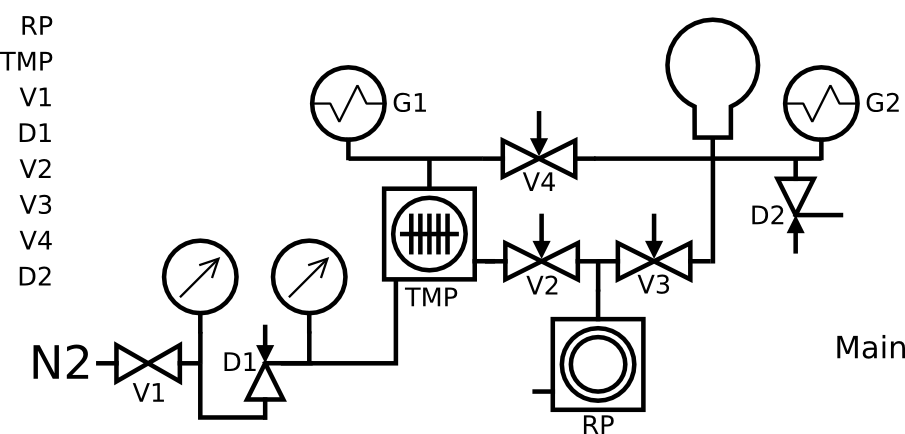
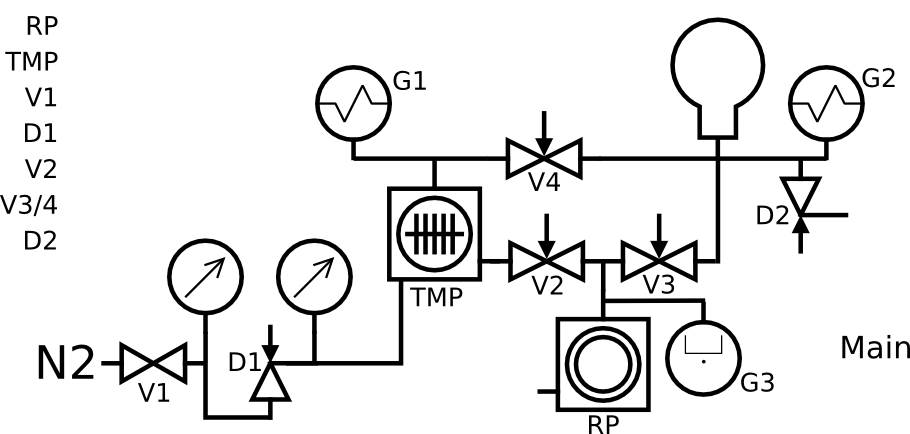
IO plug-in: Config add ons

diff --git a/html/modules/pong-io/pong-io.js b/html/modules/pong-io/pong-io.js
@@ -206,7 +206,7 @@ function pongIOrenderData( divId,  dta ) {
 				} else if ( io.type == 'Gauge') {
 					pongIOrenderGauge( ctx, io, ioDta );
 				} else if ( io.type == 'Display') {
-					pongIOrenderDisplay( ctx, io, ioDta );
+					pongIOrenderDisplay(  divId, ctx, io, ioDta );
 				} else if ( io.type == 'Graph') {
 					pongIOrenderGraph( ctx, io, ioDta );
 				} else if ( io.type == 'Img') {
@@ -237,13 +237,14 @@ function pongIOrenderSwitch( divId, ctx, def, dta ) {
 	ioSense[ divId ][ def.id ] = new Array();
 	var x = parseInt( def.pos.x );
 	var y = parseInt( def.pos.y );
-	ctx.font = "14px Courier";
 	ctx.textAlign = "start";
 	ctx.textBaseline = "middle";
 	if ( def.values && def.values.length ) { 
 		ctx.beginPath();
 		ctx.strokeStyle = "#00F";
 		ctx.fillStyle   = "#DDD";
+		if ( def.lineCol ) { ctx.strokeStyle = def.lineCol; }
+		if ( def.fillCol ) { ctx.fillStyle   = def.fillCol; }
 		ctx.arc( x, y, 15, 0 ,2*Math.PI );
 		ctx.stroke();		
 		ctx.fill();
@@ -252,40 +253,35 @@ function pongIOrenderSwitch( divId, ctx, def, dta ) {
 		var xx = x + 17
 		if ( def.values.length == 2 ) {
 			var yy = y - 8;
-			ctx.fillStyle   = "#00F";
-			ctx.fillText( def.values[0], xx, yy );
+			textOut( divId, def, ctx, def.values[0], xx, yy );
 			pongIOaddSwitchSense( divId, def.id, def.values[0], xx, yy );
 			if ( dta && dta.value && def.values[0] == dta.value ) {
-				pongIOrenderSwitchLine( ctx, x+10, y-10 );
+				pongIOrenderSwitchLine( ctx, x+10, y-10, def );
 			}
 			yy = y + 8;
-			ctx.fillStyle   = "#00F";
-			ctx.fillText( def.values[1], xx, yy );
+			textOut( divId, def, ctx, def.values[1], xx, yy );
 			pongIOaddSwitchSense( divId, def.id, def.values[1], xx, yy );
 			if ( dta && dta.value && def.values[1] == dta.value ) {
-				pongIOrenderSwitchLine( ctx, x+10, y+10 );
+				pongIOrenderSwitchLine( ctx, x+10, y+10, def );
 			}
 		} else if ( def.values.length == 3 ) {
 			var yy = y - 12;
-			ctx.fillStyle   = "#00F";
-			ctx.fillText( def.values[0], xx, yy );
+			textOut( divId, def, ctx, def.values[0], xx, yy );
 			pongIOaddSwitchSense( divId, def.id, def.values[0], xx, yy );
 			if ( dta && dta.value && def.values[0] == dta.value ) {
-				pongIOrenderSwitchLine( ctx, x+10, y-10 );
+				pongIOrenderSwitchLine( ctx, x+10, y-10, def );
 			}
 			yy = y;
-			ctx.fillStyle   = "#00F";
-			ctx.fillText( def.values[1], xx, yy );
+			textOut( divId, def, ctx, def.values[1], xx, yy );
 			pongIOaddSwitchSense( divId, def.id, def.values[1], xx, yy );
 			if ( dta && dta.value && def.values[1] == dta.value ) {
-				pongIOrenderSwitchLine( ctx, x+15, y );
+				pongIOrenderSwitchLine( ctx, x+15, y, def );
 			}
 			yy = y + 12;
-			ctx.fillStyle   = "#00F";
-			ctx.fillText( def.values[2], xx, yy );
+			textOut( divId, def, ctx, def.values[2], xx, yy );
 			pongIOaddSwitchSense( divId, def.id, def.values[2], xx, yy );
 			if ( dta && dta.value && def.values[2] == dta.value ) {
-				pongIOrenderSwitchLine( ctx, x+10, y+10 );
+				pongIOrenderSwitchLine( ctx, x+10, y+10, def );
 			}
 		}
 	}
@@ -293,10 +289,35 @@ function pongIOrenderSwitch( divId, ctx, def, dta ) {
 	log( "pong-io", "pongIOrenderSwitch end.");
 }
 
-function pongIOrenderSwitchLine( ctx, xt, yt ) {
+function textOut( divId, def, ctx, txt, x, y, opt ) {
+	var pmd = moduleConfig[ divId ];
+	
+	if ( def.font ) {	ctx.font = def.font; } 
+		else if ( pmd.font ) { ctx.font   = pmd.font; } 
+			else if ( opt && opt.font ) { ctx.font   = opt.font; } 
+				else { ctx.font   = "14px Courier"; }
+
+	if ( def.textFillColor ) {	ctx.fillStyle = def.textFillColor; } 
+		else if ( pmd.textFillColor ) { ctx.fillStyle   = pmd.textFillColor; } 
+			else if ( opt && opt.fillStyle ) { ctx.fillStyle   = opt.fillStyle; } 
+				else { ctx.fillStyle   = "#00F"; }
+	
+	if ( def.textStrokeColor ) {	ctx.strokeStyle = def.textStrokeColor; } 
+		else if ( pmd.textStrokeColor ) { ctx.strokeStyle   = pmd.textStrokeColor; } 
+			else if ( opt && opt.strokeStyle ) { ctx.strokeStyle   = opt.strokeStyle; } 
+				else { ctx.strokeStyle   = "#FFF"; }
+	
+	ctx.strokeText( txt, x, y );
+	ctx.fillText(   txt, x, y );
+	
+}
+
+function pongIOrenderSwitchLine( ctx, xt, yt, def ) {
 	log( "pong-io", xt +" / " + yt );
 	ctx.strokeStyle = "#00F";
 	ctx.fillStyle   = "#DDD";
+	if ( def.lineCol ) { ctx.strokeStyle = def.lineCol; }
+	if ( def.fillCol ) { ctx.fillStyle   = def.fillCol; }
 	ctx.lineTo( xt, yt ); 
 	ctx.stroke();	
 }
@@ -321,6 +342,8 @@ function pongIOrenderPoti( divId, ctx, def, dta ) {
 	ctx.lineWidth   = "2";
 	ctx.strokeStyle = "#00F";
 	ctx.fillStyle   = "#DDD";
+	if ( def.lineCol ) { ctx.strokeStyle = def.lineCol; }
+	if ( def.fillCol ) { ctx.fillStyle   = def.fillCol; }
 	ctx.rect( x, y, w, 20 );
 	ctx.stroke();
 	ctx.fill();  	
@@ -331,7 +354,7 @@ function pongIOrenderPoti( divId, ctx, def, dta ) {
 	ioSense[ divId ][ def.id ].y2 = y + 20;
 	ioSense[ divId ][ def.id ].min = min;
 	ioSense[ divId ][ def.id ].max = max;
-	if ( dta && dta.value ) {
+	if ( dta && dta.value != null ) {
 		log( "pong-io", "pongIOrenderPoti "+x+" + "+w+" * "+dta.value+" / ( "+max+" -"+ min+" )" );
 		ctx.beginPath();
 		var xx = x + ( w - 5 ) * dta.value / ( max - min );
@@ -340,6 +363,8 @@ function pongIOrenderPoti( divId, ctx, def, dta ) {
 		ctx.rect( xx, y, 5, 20 );
 		ctx.strokeStyle = "#00A";
 		ctx.fillStyle   = "#117";
+		if ( def.lineCol ) { ctx.strokeStyle = def.lineCol; }
+		if ( def.fillCol ) { ctx.fillStyle   = def.fillCol; }
 		ctx.stroke();
 		ctx.fill();  	
 	}
@@ -347,7 +372,7 @@ function pongIOrenderPoti( divId, ctx, def, dta ) {
 }
 
 
-function pongIOrenderDisplay( ctx, def, dta ) {
+function pongIOrenderDisplay( divId, ctx, def, dta ) {
 	log( "pong-io", "pongIOrenderDisplay '"+def.id+"': "+JSON.stringify(dta) );
 	var x = parseInt( def.pos.x );
 	var y = parseInt( def.pos.y );
@@ -355,20 +380,24 @@ function pongIOrenderDisplay( ctx, def, dta ) {
 	log( "pong-io", x+"/"+y+"/"+w );
 	ctx.beginPath();
 	ctx.lineWidth   = "2";
-	ctx.strokeStyle = "#0F0";
+	ctx.strokeStyle = "#00A";
 	ctx.fillStyle   = "#DDD";
+	if ( def.lineCol ) { ctx.strokeStyle = def.lineCol; }
+	if ( def.fillCol ) { ctx.fillStyle   = def.fillCol; }
 	ctx.rect( x, y, w, 20 );
 	ctx.stroke();
 	ctx.fill();  		
-	if ( dta  || dta.value  ) {
-		ctx.fillStyle   = "#040";
-		ctx.font = "14px Courier";
+	if ( dta  && dta.value  ) {
+		var opt = new Object();
+		opt.fillStyle   = "#040";
+		opt.strokeStyle = "#0F0";
 		ctx.textAlign = "end"; 
 		ctx.textBaseline = "bottom"; 
 		var xx = x + w - 4;
-		var yy = y + 15;
+		var yy = y + 17;
 		log( "pong-io", "ctx.fillText( "+dta.value+","+ xx+","+yy+" );" );
-		ctx.fillText( dta.value, xx, yy );
+//		ctx.fillText( dta.value, xx, yy );
+		textOut( divId, def, ctx, dta.value, xx, yy, opt );
 	}	
 	log( "pong-io", "pongIOrenderDisplay end.");
 }
@@ -397,38 +426,32 @@ function pongIOrenderLED( ctx, def, dta ) {
 		log( "pong-io", "null" );
 		ctx.strokeStyle = "grey";
 		ctx.fillStyle   = "grey";
-		ctx.rect( x, y, 7, 7 );
-		ctx.fill();  		
 	} else if ( dta.value == "1" ) {
 		log( "pong-io", "green" );
 		ctx.strokeStyle = "#0f0";
 		ctx.fillStyle   = "#0f0";
-		ctx.rect( x, y, 7, 7 );
-		ctx.fill();  		
 	} else if ( dta.value == "0" ) {
 		log( "pong-io", "black" );
 		ctx.strokeStyle = "black";
 		ctx.fillStyle   = "black";
-		ctx.rect( x, y, 7, 7 );
-		ctx.fill();  		
 	}  else if ( dta.value == "-1" ) {
 		log( "pong-io", "red" );
 		ctx.strokeStyle = "red";
 		ctx.fillStyle   = "red";
-		ctx.rect( x, y, 7, 7 );
-		ctx.fill();  		
 	}  else if ( dta.value == "2" ) {
 		log( "pong-io", "red" );
 		ctx.strokeStyle = "yellow";
 		ctx.fillStyle   = "yellow";
-		ctx.rect( x, y, 7, 7 );
-		ctx.fill();  		
 	} else {
 		log( "pong-io", "other" );
 		ctx.strokeStyle = "grey";
 		ctx.fillStyle   = "grey";
-		ctx.rect( x, y, 7, 7 );
-		ctx.fill();  				
 	}
+	var ledW = 7, ledH = 7;
+	if ( def.ledWidth  ) { ledW = def.ledWidth; }
+	if ( def.ledHeight ) { ledW = def.ledHeight; }
+	ctx.rect( x, y, ledW, ledH );
+	ctx.fill();  		
 	log( "pong-io", "pongIOrenderLED end.");
 }
+

diff --git a/html/svc/io/index.php b/html/svc/io/index.php
@@ -1,9 +1,20 @@
 <?php 
 header('Content-type: application/json');
 session_start();
+if ($_SERVER['REQUEST_METHOD'] === 'POST') {
+	if ( $_POST['value'] == 'Power OFF' ) {
+		unset( $_SESSION["p1"] );
+	}
+	if ( $_POST['value'] == 'Power ON' ) {
+		$_SESSION["switchMain"] = 'Power ON';
+	}
+}
+
 if ( ! isset( $_SESSION["p1"] ) ) {
 	$_SESSION["p1"] = 100;
 	$_SESSION["p2"] = 100;
+	$_SESSION["p3"] = 100;
+	
 	$_SESSION["switchMain"] = 'Power ON';
 	$_SESSION["switchTMP"]  = 'OFF';
 	$_SESSION["ledTMP"]     = '-1';
@@ -15,8 +26,7 @@ if ( ! isset( $_SESSION["p1"] ) ) {
 	
 	$_SESSION["switchValveN2"]   = 'close';
 	$_SESSION["switchValveTMP"]  = 'close';
-	$_SESSION["switchValveChHi"] = 'close';
-	$_SESSION["switchValveChLo"] = 'close';
+	$_SESSION["switchValveChHi"] = 'inflate';
 	
 	$_SESSION["ledValveN2"] = '-1';
 	$_SESSION["ledValveTMP"] = '-1';
@@ -26,7 +36,7 @@ if ( ! isset( $_SESSION["p1"] ) ) {
 }
 
 
-if ($_SERVER['REQUEST_METHOD'] === 'POST') {
+if ( $_SERVER['REQUEST_METHOD'] === 'POST' && 	$_SESSION["switchMain"] != 'Power OFF' ) {
 
 	error_log( $_POST['id'] .'='. $_POST['value'] );
 	$_SESSION[ $_POST['id'] ] = $_POST['value'];
@@ -105,6 +115,7 @@ if ( $_SESSION["ledValveChHi"] == '1' ) {
 	$_SESSION["p2"] = $_SESSION["p1"];
 }
 if ( $_SESSION["switchRP"] == 'ON') { 
+	$_SESSION["p3"] = 10;
 	if ( $_SESSION["switchValveInflate"] < 10) {
 		if ( $_SESSION["ledValveChLo"] == '1' ) {
 			$_SESSION["p2"] = 10;
@@ -121,6 +132,8 @@ if ( $_SESSION["switchRP"] == 'ON') {
 			$_SESSION["p2"] = 100;
 		}
 	}
+} else {
+	$_SESSION["p3"] = 100;
 }
 
 
@@ -134,12 +147,12 @@ $data['ledTMP'] = array( 'value' => $_SESSION["ledTMP"] );
 $data['ledRP'] = array( 'value' => $_SESSION["ledRP"] );
 $data['displayG1'] = array( 'value' => $_SESSION["p1"].' kPa' );
 $data['displayG2'] = array( 'value' => $_SESSION["p2"].' kPa' );
+$data['displayG3'] = array( 'value' => $_SESSION["p3"].' kPa' );
 $data['switchRP']  = array( 'value' => $_SESSION["switchRP"] );
 $data['switchTMP'] = array( 'value' => $_SESSION["switchTMP"] );
 $data['switchValveN2']   = array( 'value' => $_SESSION["switchValveN2"]  );
 $data['switchValveTMP']  = array( 'value' => $_SESSION["switchValveTMP"]  );
 $data['switchValveChHi'] = array( 'value' => $_SESSION["switchValveChHi"]  );
-$data['switchValveChLo'] = array( 'value' => $_SESSION["switchValveChLo"]  );
 $data['switchValveN2n']     = array( 'value' => $_SESSION["switchValveN2n"] );
 $data['switchValveInflate'] = array( 'value' => $_SESSION["switchValveInflate"] );
 echo json_encode( $data , JSON_PRETTY_PRINT | JSON_UNESCAPED_SLASHES  );

diff --git a/html/modules/pong-io/README.md b/html/modules/pong-io/README.md
@@ -42,6 +42,11 @@ The LED needs only a unique ID and coordinates where to place it.
 				"pos":{ "x":"123", "y":"345" }
 			}, ...			
 
+Optional settings:
+
+ 				"ledWidth":"4",
+ 				"ledHeight":"8"
+
 LEDs values are:
 * -1: red
 * 0: black
@@ -60,6 +65,14 @@ Switches can have 2 or 3 values, defined in a array.
 				"pos":{ "x":"123", "y":"345" }
 			}, ...			
 
+Optional settings:
+
+ 				"font":"14px Courier",
+ 				"textFillColor":"#00F",
+ 				"textStrokeColor":"#FFF",
+				"lineCol":"#00A",
+				"fillCol":"#DDD"
+
 A switch by mouse click will do a POST with the id and value to to 'dataURL'.
 
 ### Display
@@ -74,6 +87,14 @@ Displays can display any text or value (like LCD):
 				"pos":{ "x":"123", "y":"345" }
 			}, ...			
 
+Optional settings:
+
+ 				"font":"14px Courier",
+ 				"textFillColor":"#00F",
+ 				"textStrokeColor":"#FFF",
+				"lineCol":"#00A",
+				"fillCol":"#DDD"
+
 ### Poti
 A poti is a horizontal slider:
 
@@ -87,6 +108,11 @@ A poti is a horizontal slider:
 				"max":"100",
 				"pos":{ "x":"123", "y":"345" }
 			}, ...			
+
+Optional settings:
+
+				"lineCol":"#00A",
+				"fillCol":"#DDD"
 
 A change of the poti by mouse click will do a POST request with the new vaue to the backend.
 
